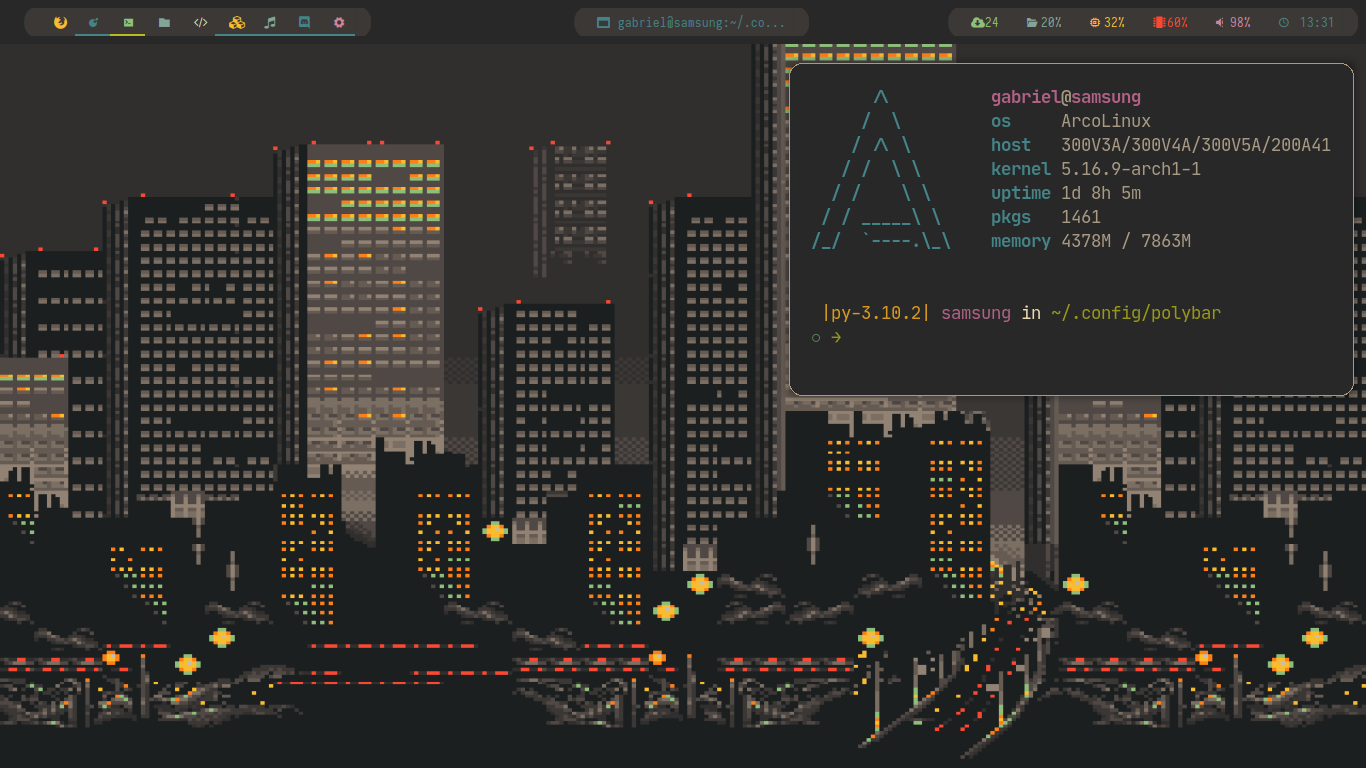
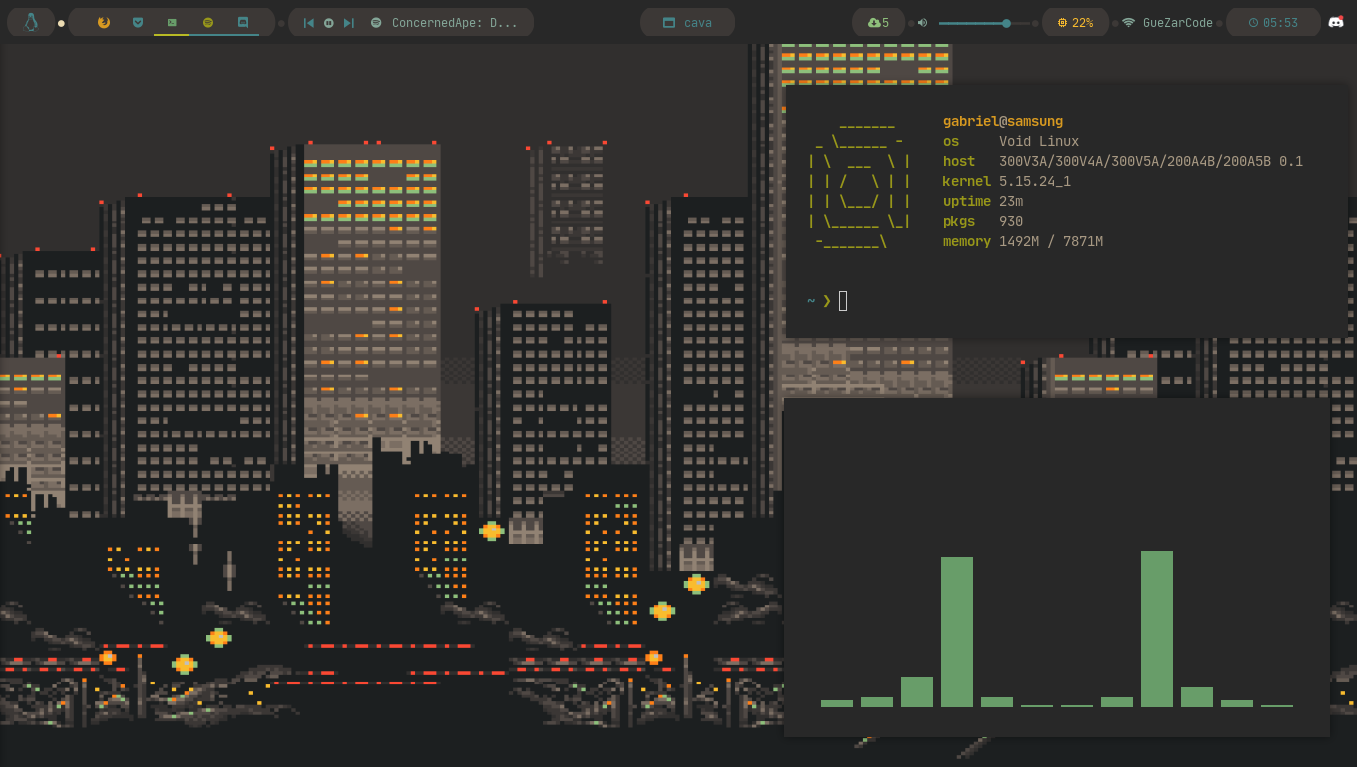
updated showcase

diff --git a/README.md b/README.md
@@ -14,7 +14,8 @@ You really make me happy if you do it :D
 
 ## Requirements
 
-I am using Arch Linux, but I expect you have it, to make all work
+I am using void linux, I expect you use it to make all work, but installation
+also works for Arch Linux
 
 - Iosevka Nerd Font
 - Sauce Code Pro Nerd Font
@@ -45,7 +46,7 @@ I use `bash`, `zsh` and `fish`. I use this shells, but in combination with stars
 
 ## Installation
 
-- The installers only works in an arch-based system because dependencies are installed with pacman and yay
+- The installers only works for void linux and arch linux
 - The installers setup bash as default shell, but configuration with starship are created too for `fish` and `zsh`
 - The installers may copy your old configurations files to `filename.old` if it found it's folders, it don't delete your old configuration folders
 
@@ -58,6 +59,14 @@ To use it, execute this command:
 
 ```sh
 curl https://raw.githubusercontent.com/AlphaTechnolog/bspwm-dotfiles-v2/main/install.sh | bash
+```
+
+Or at clone the dotfiles (is important that the dotfiles are in ~/.bspwm-dotfiles):
+
+```sh
+git clone https://github.com/AlphaTechnolog/bspwm-dotfiles-v2.git ~/.bspwm-dotfilesthe 
+cd ~/.bspwm-dotfiles
+./install.sh
 ```
 
 ## Dotbot
@@ -84,6 +93,7 @@ I have a lot of wallpapers, it are published in [.sample-wallpapers](https://git
 ![tokyonight](./.misc/showcase/tokyonight.png)
 ![gruvbox](./.misc/showcase/gruvbox.png)
 ![material-ocean](./.misc/showcase/material-ocean.png)
+![onedark](./.misc/showcase/onedark.png)
 
 > A tool to change themes is in development :D
 
